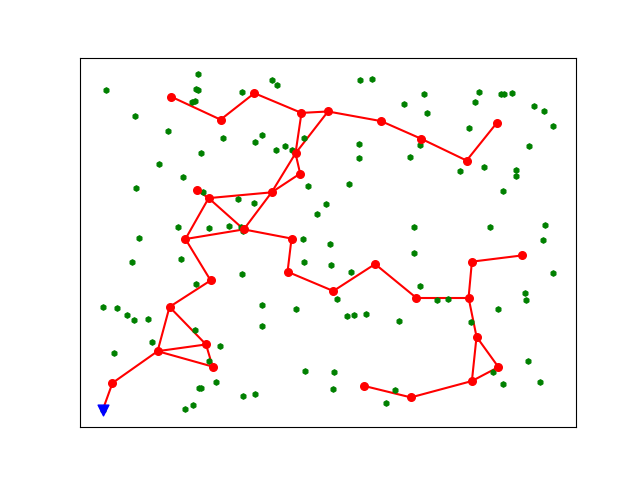
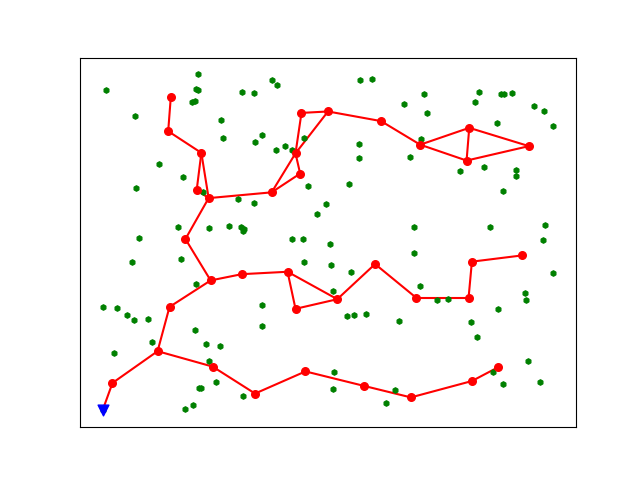
fitness works

diff --git a/evolutionary.cpp b/evolutionary.cpp
@@ -6,24 +6,30 @@
 
 using namespace std;
 
-Individual::Individual(int id, sparse_vector &elder, double avg_insertions, int nb_targets) : sparse_vector(elder) {
-		int nb_insertions = floor(0.5*avg_insertions*nb_targets) + rand() % int(avg_insertions*nb_targets);
+Individual::Individual(int id, sparse_vector &elder, double avg_insertions, int nb_targets, double _lambda_capt, double _lambda_comm) : sparse_vector(elder) {
+		int nb_insertions = floor(0.5*avg_insertions*nb_targets) + rand() % max(1, int(avg_insertions*nb_targets));
 		nb_insertions = min(nb_insertions, nb_targets - int(vect->size()));
 		modification* modif = new modification(&elder, 0, nb_insertions, nb_targets);
 		vect = modif->apply_modification(&elder)->vect;
+		lambda_capt = _lambda_capt;
+		lambda_comm = _lambda_comm;
+		fitness = vect->size() - 1;
 }
 
 Individual::Individual() : sparse_vector() {
+		fitness = vect->size() - 1;
 }
 
 Individual::Individual(const Individual &ind_original) : sparse_vector(ind_original) {
 		id = ind_original.id;
+		fitness = ind_original.vect->size() - 1;
 }
 
 Individual::Individual(sparse_vector& v_original) : sparse_vector(v_original){
+		fitness = v_original.vect->size() - 1;
 }
 
-Individual Individual::cross(Individual& other, int avg_gene_size, int nb_targets, int id_child, int K, sparse_matrix M_comm, sparse_matrix M_capt, double lambda_capt, double lambda_connexity){
+Individual Individual::cross(Individual& other, int avg_gene_size, int nb_targets, int id_child, int K, sparse_matrix M_comm, sparse_matrix M_capt){
 		int min_cut = 1+rand()%(nb_targets-1);
 		int max_cut = min_cut + int(avg_gene_size/2) + rand()%(int(avg_gene_size/2));
 		unordered_set<int> range, geneA, geneB;
@@ -33,17 +39,20 @@ Individual Individual::cross(Individual& other, int avg_gene_size, int nb_target
 		geneA = intersection(range, *vect);
 		geneB = intersection(range, *(other.vect));
 		modification cross_modif(geneA, geneB);
-        Individual* child = new Individual(*cross_modif.apply_modification(&other,K,M_comm,M_capt,lambda_capt,lambda_connexity));
+    Individual* child = new Individual(*cross_modif.apply_modification(&other,K,M_comm,M_capt));
 		child->id = id_child;
 		return *child;
 }
 
-Population::Population(int init_size, sparse_vector &elder, double avg_insertions, int nb_targets){
+Population::Population(int init_size, sparse_vector &elder, double avg_insertions, double _lambda_capt, double _lambda_comm, int _nb_targets){
 		size = init_size;
+		nb_targets = _nb_targets;
+		lambda_capt = _lambda_capt;
+		lambda_comm = _lambda_comm;
 		individuals = new vector<Individual>;
 		Individual* current;
 		for (int i=0; i<init_size; i++) {
-				current = new Individual(i, elder, avg_insertions, nb_targets);
+				current = new Individual(i, elder, avg_insertions, nb_targets, _lambda_capt, _lambda_comm);
 				individuals->push_back(*current);
 		}
 }
@@ -90,7 +99,7 @@ void Population::write_to_file(string file_name, vector<Target>& targets, sparse
 
 
 
-void Population::cross(double reproduction_rate, int avg_gene_size, int nb_targets) {
+void Population::cross(double reproduction_rate, int avg_gene_size, int K, sparse_matrix &M_comm, sparse_matrix &M_capt) {
 		int nb_cross = int(reproduction_rate*size);
 		int parent_A, parent_B;
 		for (int i=0; i<nb_cross; i++) {
@@ -99,7 +108,7 @@ void Population::cross(double reproduction_rate, int avg_gene_size, int nb_targe
 				while (parent_B == parent_A) {
 						parent_B = rand() % size;
 				}
-				individuals->push_back(individuals->at(parent_A).cross(individuals->at(parent_B), nb_targets, avg_gene_size, size+i));
+				individuals->push_back(individuals->at(parent_A).cross(individuals->at(parent_B), avg_gene_size, nb_targets, size+i, K, M_comm, M_capt));
 		}
 		size += nb_cross;
 }

diff --git a/evolutionary.h b/evolutionary.h
@@ -7,11 +7,11 @@ using namespace std;
 class Individual: public sparse_vector {
 public:
 		int id;
-		Individual(int id, sparse_vector &elder, double avg_insertions, int nb_targets);
+		Individual(int id, sparse_vector &elder, double avg_insertions, int nb_targets, double lambda_capt, double lambda_comm);
 		Individual(const Individual &ind_original);
 		Individual(sparse_vector& v_original);
 		Individual();
-        Individual cross(Individual& other, int avg_gene_size, int nb_targets, int id_child, int K, sparse_matrix M_comm, sparse_matrix M_capt, double lambda_capt, double lambda_connexity); // Cross-over operation
+    Individual cross(Individual& other, int avg_gene_size, int nb_targets, int id_child, int K, sparse_matrix M_comm, sparse_matrix M_capt); // Cross-over operation
 };
 
 
@@ -24,9 +24,12 @@ public:
 		double best_fitness;
 		double avg_fitness;
 		int best_id;
-		Population(int init_size, sparse_vector &elder, double avg_insertions, int nb_targets);
+		int nb_targets;
+		double lambda_capt;
+		double lambda_comm;
+		Population(int init_size, sparse_vector &elder, double avg_insertions, double lambda_capt, double lambda_comm, int nb_targets);
 		void compute_metrics();
-		void cross(double reproduction_rate, int avg_gene_size, int nb_targets);
+		void cross(double reproduction_rate, int avg_gene_size, int K, sparse_matrix &M_comm, sparse_matrix &M_capt);
 		void mutate(double mutation_rate);
 		void natural_select(double kill_rate); //First implementation : select (1-kill_rate)% of individuals
 		void display(int ranking_size);
@@ -41,6 +44,8 @@ public:
 		double mutation_rate;
 		double reproduction_rate;
 		double kill_rate;
+		double lambda_capt;
+		double lambda_comm;
 		int avg_gene_size;
 		EvolutionnaryOptimizer(int nb_max_generations,int init_size,double mutation_rate,double reproduction_rate, double kill_rate, double avg_insertions, int avg_gene_size);
 		void run(string file_name);

diff --git a/sparse.h b/sparse.h
@@ -13,6 +13,8 @@ public:
     std::unordered_set<int>* vect;
     bool isEligible;
     double fitness = INF;
+    double lambda_capt;
+    double lambda_comm;
     sparse_vector(){vect = new std::unordered_set<int>;}
     sparse_vector(std::unordered_set<int> &V){vect = new std::unordered_set<int>(V);}
     sparse_vector(const sparse_vector &v_original);
@@ -48,7 +50,7 @@ public:
     ~modification(){deleted_captor->clear(); added_captor->clear();}
     bool check_modif(sparse_vector *vect, int k, sparse_matrix &M_comm, sparse_matrix &M_capt);
     void penalization(sparse_vector *vect, int k, sparse_matrix &M_comm, sparse_matrix &M_capt, int& k_captation, int& connexity);
-    sparse_vector* apply_modification(sparse_vector *vect, int k, sparse_matrix &M_comm, sparse_matrix &M_capt, double lambda_capt, double lambda_connexity);
+    sparse_vector* apply_modification(sparse_vector *vect, int k, sparse_matrix &M_comm, sparse_matrix &M_capt);
     sparse_vector* apply_modification(sparse_vector *vect);
 };
 
@@ -58,6 +60,5 @@ void create_solution(sparse_vector *captors, vector<Target> targets, double R_ca
 void setSensorsFromVect(vector<Target> &targets, sparse_vector &v);
 void setNeighboorsFromCommunicationGraph(vector<Target> &targets, sparse_matrix &Com_graph);
 void create_communication_tree(sparse_matrix &M_result, sparse_matrix M_comm, sparse_vector vect);
-bool check_modification(sparse_matrix M_capt, sparse_matrix M_comm, sparse_vector vect_init, sparse_vector vect_fin);
 
 const unordered_set<int> intersection(unordered_set<int> a, unordered_set<int> b);

diff --git a/sparse.cpp b/sparse.cpp
@@ -69,6 +69,8 @@ sparse_vector::sparse_vector(const sparse_vector &v_original) {
     vect = new unordered_set<int>(*v_original.vect);
     isEligible = v_original.isEligible;
     fitness = v_original.fitness;
+    lambda_capt = v_original.lambda_capt;
+    lambda_comm = v_original.lambda_comm;
 }
 
 const unordered_set<int> intersection(unordered_set<int> a, unordered_set<int> b) {
@@ -300,7 +302,7 @@ void modification::penalization(sparse_vector *vect, int k, sparse_matrix &M_com
     }
 }
 
-sparse_vector* modification::apply_modification(sparse_vector *vect, int k, sparse_matrix &M_comm, sparse_matrix &M_capt, double lambda_capt, double lambda_connexity){
+sparse_vector* modification::apply_modification(sparse_vector *vect, int k, sparse_matrix &M_comm, sparse_matrix &M_capt){
     sparse_vector* new_vect = new sparse_vector(*vect);
 
     int k_capt = 0,connexity = 0;
@@ -313,7 +315,7 @@ sparse_vector* modification::apply_modification(sparse_vector *vect, int k, spar
         (new_vect)->add_point(*i);
     }
     new_vect->isEligible = (k_capt ==0) and (connexity==0);
-    new_vect->fitness = lambda_capt*k_capt + lambda_connexity*connexity + new_vect->vect->size() - 1;
+    new_vect->fitness = vect->lambda_capt*k_capt + vect->lambda_comm*connexity + new_vect->vect->size() - 1;
     return new_vect;
 }
 

diff --git a/main.cpp b/main.cpp
@@ -44,12 +44,8 @@ int main(){
               sparse_matrix M_capt(targets, R_CAPT);
 
               setTargetsWeights(targets, M_capt);
-              unordered_set<int> a;
-              for (int i=0; i<targets.size();i++) {
-                  a.insert(i);
-              }
-              sparse_vector* v = new sparse_vector(a);
-              //create_solution(v, targets,R_CAPT,K);
+              sparse_vector* v = new sparse_vector();
+              create_solution(v, targets,R_CAPT,K);
 
 
               vector<int> removal_queue = sortedTargetsIds(targets);
@@ -60,6 +56,10 @@ int main(){
               setSensorsFromVect(targets, *v);
               setNeighboorsFromCommunicationGraph(targets, Com_graph);
 
+              Population p(200, *v, 0.1, 1,1, targets.size());
+              p.cross(0.5, 10, K, M_comm, M_capt);
+              p.compute_metrics();
+              cout << p.avg_fitness;
               writeToTxt(targets,instance, K, R_COMM, R_CAPT);
 
               system("python visualizer.py");
@@ -71,4 +71,3 @@ int main(){
 
   return 0;
 }
-
